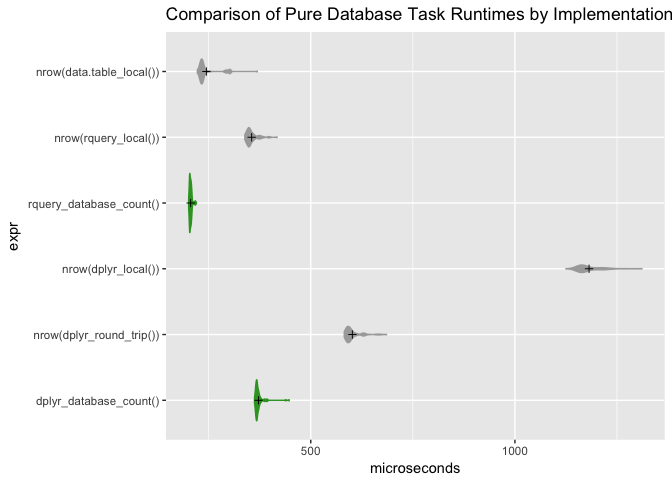
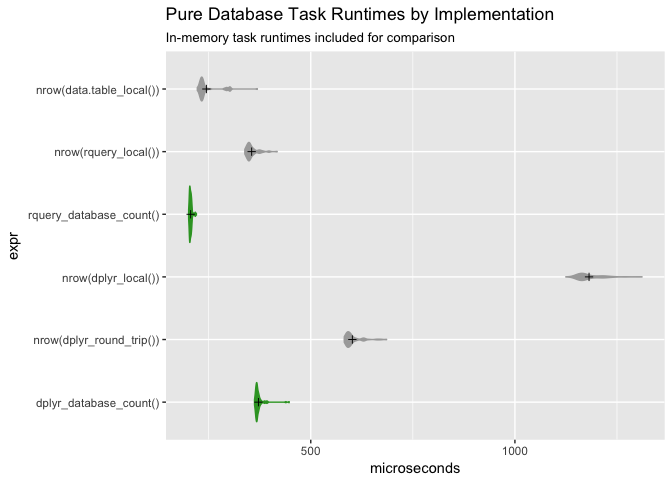
Added subtitles

diff --git a/extras/plotexample.md b/extras/plotexample.md
@@ -25,7 +25,7 @@ colormap = runs := c(highlightcolor,
 
 tr <- timings[timings$expr %in% runs, , drop=FALSE]
 tr$expr <- factor(tr$expr, levels = rev(runs))
-plotbenchmark(tr, colormap, "Comparison of In-Memory Task Runtimes by Implementation")
+plotbenchmark(tr, colormap, "In-Memory Task Runtimes by Implementation")
 ```
 
 ![](plotexample_files/figure-markdown_github/unnamed-chunk-1-1.png)
@@ -46,7 +46,9 @@ colormap = runs := c(greycolor,
 
 tr <- timings[timings$expr %in% runs, , drop=FALSE]
 tr$expr <- factor(tr$expr, levels = rev(runs))
-plotbenchmark(tr, colormap, "Comparison of Pure Database Task Runtimes by Implementation")
+plotbenchmark(tr, colormap, 
+              title = "Pure Database Task Runtimes by Implementation",
+              subtitle = "In-memory task runtimes included for comparison")
 ```
 
 ![](plotexample_files/figure-markdown_github/unnamed-chunk-1-2.png)
